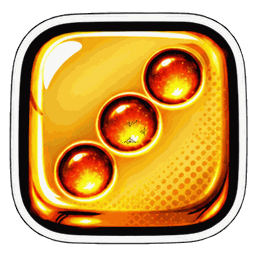
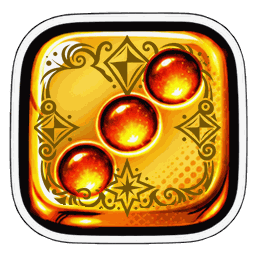
fix(motifs): vingt-quatre faces sans gravure, et la carte d'accueil ignorait la hauteur de l'ecran
LES GRAVURES MANQUANTES. Toutes celles dont le point du milieu est en BRAISE :
die_1, die_3, die_5 en version chaude, sur les douze combinaisons. La cause est
dans la lecture de l'anatomie du de — elle prenait la zone claire qui contient
le CENTRE, et un pip allume est clair lui aussi. La « face » mesurait 958 pixels
au lieu de 34 000, et la gravure se posait a l'interieur du point. A l'ecran :
un plateau ou les des chauds, et eux seuls, n'avaient pas de motif.

On prend desormais la PLUS GRANDE zone claire — le lisere blanc du de en fait
6 600, un pip 958 : aucun ne peut gagner. Et le script ne se croit plus sur
parole : `--verifier` compare chaque face gravee a sa source, et la generation
echoue si l'une d'elles n'a pas bouge. Annoncer « 144 faces gravees » quand
vingt-quatre sont des copies exactes, c'est compter des fichiers ecrits, pas du
travail fait.

LA CARTE D'ACCUEIL. Mesure en 360x640 : la coque faisait 640 px pour 851 px de
contenu — deux cent onze pixels coupes net, et le bas de la carte tombait hors
de l'ecran sans qu'aucun geste ne puisse aller le chercher. Trois defauts
empiles : la boite n'etait pas bornee (donc `overflow: auto` ne servait a
rien), son rembourrage s'ajoutait a `max-height` faute de `border-box`, et le
centrage par `margin: auto` repartissait le debordement des deux cotes — la
moitie du haut devenant inatteignable.

Tout ce qui prend de la hauteur se mesure maintenant en hauteur d'ecran, avec
[…]

diff --git a/app/css/mobile.css b/app/css/mobile.css
@@ -324,7 +324,6 @@ input, textarea { -webkit-user-select: text; user-select: text; }
   #dicewrap .dc-over-seal { width: 86px; }
   #dicewrap .dc-bet-art { width: 116px; }
   #dicewrap .dc-over-score { font-size: 38px; }
-  #dicewrap .dc-menu-card { padding: 22px 20px; }
   #dicewrap .dc-menu-btns { flex-direction: column; }
   #dicewrap .dc-btn { min-height: 48px; }
 }
@@ -839,6 +838,16 @@ input, textarea { -webkit-user-select: text; user-select: text; }
 
 /* ── les ecrans tres etroits (320 px : le plancher Android) ───────────────── */
 
+/* Les tres petits ecrans en hauteur : on serre le texte, pas les boutons.
+   ⚠ C'EST LE PARAGRAPHE QU'ON SACRIFIE, PAS LE POUCE. Reduire les trois
+   boutons ferait tenir la carte aussi — et rendrait le jeu plus dur a demarrer
+   sur les telephones ou il est deja le plus a l'etroit. */
+@media (max-height: 700px) {
+  #dicewrap .dc-menu-card p { line-height: 1.3; }
+  #dicewrap .dc-menu-card h2 { font-size: calc(18px * var(--pd-ui, 1)); }
+  #dicewrap .dc-caps-head { letter-spacing: 1px; }
+}
+
 @media (max-width: 359px) {
   #dicewrap .dc-top { gap: 5px; padding: 5px 6px; }
   #dicewrap .dc-wallet { padding: 3px 9px; }
@@ -877,7 +886,29 @@ input, textarea { -webkit-user-select: text; user-select: text; }
        d'abord en faire une colonne. */
     display: flex;
     flex-direction: column;
-    min-height: 100%;
+    /* ⛔ `min-height: 100%` LAISSAIT LA CARTE GRANDIR AU-DELA DE L'ECRAN, et
+       `overflow-y: auto` ne servait alors a rien : on ne defile que dans une
+       boite BORNEE. Mesure du 2026-08-26 en 360x640 : la coque faisait 640 px
+       pour 851 px de contenu — deux cent onze pixels coupes net, et le bas de
+       la carte (les trois boutons, la ligne de statistiques) tombait hors de
+       l'ecran sans qu'aucun geste ne puisse aller le chercher.
+       On borne donc la boite a la hauteur disponible : elle s'etire tant qu'il
+       y a de la place, elle defile quand il n'y en a plus. */
+    flex: 1 1 auto;
+    min-height: 0;
+    max-height: 100%;
+    /* ⚠ SANS `border-box`, LE REMBOURRAGE S'AJOUTE A `max-height`. Mesure :
+       une boite bornee a 570 px en faisait 598 — les 12 et 16 px de haut et de
+       bas — et treize pixels de la carte passaient sous le bord de l'ecran.
+       Une hauteur maximale qui n'est pas la hauteur maximale ne borne rien. */
+    box-sizing: border-box;
+    /* ⚠ `margin: auto` CENTRE, PUIS CACHE. Quand la carte depasse, un centrage
+       par marges automatiques repartit le debordement des DEUX cotes — et la
+       moitie du haut devient inatteignable, aucun defilement ne remonte
+       au-dessus du point de depart. `safe center` centre tant qu'il y a de la
+       place et retombe en haut des qu'il n'y en a plus : rien n'est jamais
+       hors de portee. */
+    justify-content: safe center;
     overflow-y: auto;
     overscroll-behavior: contain;
     -webkit-overflow-scrolling: touch;
@@ -893,19 +924,51 @@ input, textarea { -webkit-user-select: text; user-select: text; }
      centree : le reste d'espace se partage a parts egales au-dessus et en
      dessous, ce qui se lit comme voulu. */
   #dicewrap .dc-menu-card {
-    margin: auto;
+    margin: 0 auto;                       /* le centrage vertical vient du parent */
     display: flex;
     flex-direction: column;
     justify-content: center;
-    gap: clamp(8px, 1.8vh, 20px);
+    gap: clamp(5px, 1.4vh, 20px);
+    padding: clamp(12px, 2.2vh, 22px) 20px;
   }
 
-  #dicewrap .dc-caps { margin-bottom: 14px; padding-top: 12px; }
-  #dicewrap .dc-caps-head { font-size: calc(11px * var(--pd-ui, 1)); margin-bottom: 9px; }
+  /* ⛔ LA CARTE D'ACCUEIL AVAIT UNE HAUTEUR FIXE ET L'ECRAN NON. Rembourrages,
+     ecarts, boutons et medaillons etaient en pixels : la meme carte de 695 px
+     sur un telephone de 640 et sur un de 915. Sur le petit, elle depassait de
+     cent trente pixels ; sur le grand, elle flottait au milieu du vide.
+     Tout ce qui prend de la HAUTEUR se mesure donc en hauteur d'ecran, avec un
+     plancher et un plafond : la carte se serre d'elle-meme sur un petit
+     telephone et retrouve son air sur un grand, sans media query a maintenir
+     pour chaque modele. */
+  #dicewrap .dc-menu-card p {
+    font-size: clamp(12.5px, 1.9vh, 15px);
+    line-height: 1.45;
+    margin-bottom: 0;
+  }
+  #dicewrap .dc-menu-btns { gap: clamp(7px, 1.5vh, 16px); }
+  #dicewrap .dc-menu-card .dc-btn-big {
+    padding: clamp(9px, 1.6vh, 15px) 30px clamp(7px, 1.3vh, 12px);
+    font-size: calc(clamp(14px, 2.1vh, 17px) * var(--pd-ui, 1));
+  }
+  #dicewrap .dc-menu-stats { margin-top: clamp(4px, 1vh, 14px); }
+  #dicewrap .dc-caps {
+    margin: 0 0 clamp(4px, 1.2vh, 14px);
+    padding-top: clamp(5px, 1.3vh, 12px);
+  }
+  #dicewrap .dc-caps-head { margin-bottom: clamp(4px, 1vh, 9px); }
+  #dicewrap .dc-cap {
+    width: min(15.5vw, clamp(40px, 7.2vh, 64px));
+    height: min(15.5vw, clamp(40px, 7.2vh, 64px));
+  }
+  #dicewrap .dc-cap-card {
+    min-height: clamp(40px, 6.4vh, 54px);
+    padding: clamp(4px, 1vh, 8px) 11px;
+  }
+  #dicewrap .dc-cap-trait { width: clamp(38px, 6vh, 52px); height: clamp(38px, 6vh, 52px); }
+
+  #dicewrap .dc-caps-head { font-size: calc(11px * var(--pd-ui, 1)); }
   #dicewrap .dc-caps-row { gap: 5px; }
-  #dicewrap .dc-cap { width: 15.5vw; height: 15.5vw; max-width: 64px; max-height: 64px; }
-  #dicewrap .dc-cap-card { gap: 9px; padding: 8px 11px; min-height: 54px; }
-  #dicewrap .dc-cap-trait { width: 52px; height: 52px; }
+  #dicewrap .dc-cap-card { gap: 9px; }
   #dicewrap .dc-cap-txt b { font-size: calc(13px * var(--pd-ui, 1)); }
   #dicewrap .dc-cap-txt span { font-size: calc(12px * var(--pd-ui, 1)); }
 

diff --git a/www/css/mobile.css b/www/css/mobile.css
@@ -324,7 +324,6 @@ input, textarea { -webkit-user-select: text; user-select: text; }
   #dicewrap .dc-over-seal { width: 86px; }
   #dicewrap .dc-bet-art { width: 116px; }
   #dicewrap .dc-over-score { font-size: 38px; }
-  #dicewrap .dc-menu-card { padding: 22px 20px; }
   #dicewrap .dc-menu-btns { flex-direction: column; }
   #dicewrap .dc-btn { min-height: 48px; }
 }
@@ -839,6 +838,16 @@ input, textarea { -webkit-user-select: text; user-select: text; }
 
 /* ── les ecrans tres etroits (320 px : le plancher Android) ───────────────── */
 
+/* Les tres petits ecrans en hauteur : on serre le texte, pas les boutons.
+   ⚠ C'EST LE PARAGRAPHE QU'ON SACRIFIE, PAS LE POUCE. Reduire les trois
+   boutons ferait tenir la carte aussi — et rendrait le jeu plus dur a demarrer
+   sur les telephones ou il est deja le plus a l'etroit. */
+@media (max-height: 700px) {
+  #dicewrap .dc-menu-card p { line-height: 1.3; }
+  #dicewrap .dc-menu-card h2 { font-size: calc(18px * var(--pd-ui, 1)); }
+  #dicewrap .dc-caps-head { letter-spacing: 1px; }
+}
+
 @media (max-width: 359px) {
   #dicewrap .dc-top { gap: 5px; padding: 5px 6px; }
   #dicewrap .dc-wallet { padding: 3px 9px; }
@@ -877,7 +886,29 @@ input, textarea { -webkit-user-select: text; user-select: text; }
        d'abord en faire une colonne. */
     display: flex;
     flex-direction: column;
-    min-height: 100%;
+    /* ⛔ `min-height: 100%` LAISSAIT LA CARTE GRANDIR AU-DELA DE L'ECRAN, et
+       `overflow-y: auto` ne servait alors a rien : on ne defile que dans une
+       boite BORNEE. Mesure du 2026-08-26 en 360x640 : la coque faisait 640 px
+       pour 851 px de contenu — deux cent onze pixels coupes net, et le bas de
+       la carte (les trois boutons, la ligne de statistiques) tombait hors de
+       l'ecran sans qu'aucun geste ne puisse aller le chercher.
+       On borne donc la boite a la hauteur disponible : elle s'etire tant qu'il
+       y a de la place, elle defile quand il n'y en a plus. */
+    flex: 1 1 auto;
+    min-height: 0;
+    max-height: 100%;
+    /* ⚠ SANS `border-box`, LE REMBOURRAGE S'AJOUTE A `max-height`. Mesure :
+       une boite bornee a 570 px en faisait 598 — les 12 et 16 px de haut et de
+       bas — et treize pixels de la carte passaient sous le bord de l'ecran.
+       Une hauteur maximale qui n'est pas la hauteur maximale ne borne rien. */
+    box-sizing: border-box;
+    /* ⚠ `margin: auto` CENTRE, PUIS CACHE. Quand la carte depasse, un centrage
+       par marges automatiques repartit le debordement des DEUX cotes — et la
+       moitie du haut devient inatteignable, aucun defilement ne remonte
+       au-dessus du point de depart. `safe center` centre tant qu'il y a de la
+       place et retombe en haut des qu'il n'y en a plus : rien n'est jamais
+       hors de portee. */
+    justify-content: safe center;
     overflow-y: auto;
     overscroll-behavior: contain;
     -webkit-overflow-scrolling: touch;
@@ -893,19 +924,51 @@ input, textarea { -webkit-user-select: text; user-select: text; }
      centree : le reste d'espace se partage a parts egales au-dessus et en
      dessous, ce qui se lit comme voulu. */
   #dicewrap .dc-menu-card {
-    margin: auto;
+    margin: 0 auto;                       /* le centrage vertical vient du parent */
     display: flex;
     flex-direction: column;
     justify-content: center;
-    gap: clamp(8px, 1.8vh, 20px);
+    gap: clamp(5px, 1.4vh, 20px);
+    padding: clamp(12px, 2.2vh, 22px) 20px;
   }
 
-  #dicewrap .dc-caps { margin-bottom: 14px; padding-top: 12px; }
-  #dicewrap .dc-caps-head { font-size: calc(11px * var(--pd-ui, 1)); margin-bottom: 9px; }
+  /* ⛔ LA CARTE D'ACCUEIL AVAIT UNE HAUTEUR FIXE ET L'ECRAN NON. Rembourrages,
+     ecarts, boutons et medaillons etaient en pixels : la meme carte de 695 px
+     sur un telephone de 640 et sur un de 915. Sur le petit, elle depassait de
+     cent trente pixels ; sur le grand, elle flottait au milieu du vide.
+     Tout ce qui prend de la HAUTEUR se mesure donc en hauteur d'ecran, avec un
+     plancher et un plafond : la carte se serre d'elle-meme sur un petit
+     telephone et retrouve son air sur un grand, sans media query a maintenir
+     pour chaque modele. */
+  #dicewrap .dc-menu-card p {
+    font-size: clamp(12.5px, 1.9vh, 15px);
+    line-height: 1.45;
+    margin-bottom: 0;
+  }
+  #dicewrap .dc-menu-btns { gap: clamp(7px, 1.5vh, 16px); }
+  #dicewrap .dc-menu-card .dc-btn-big {
+    padding: clamp(9px, 1.6vh, 15px) 30px clamp(7px, 1.3vh, 12px);
+    font-size: calc(clamp(14px, 2.1vh, 17px) * var(--pd-ui, 1));
+  }
+  #dicewrap .dc-menu-stats { margin-top: clamp(4px, 1vh, 14px); }
+  #dicewrap .dc-caps {
+    margin: 0 0 clamp(4px, 1.2vh, 14px);
+    padding-top: clamp(5px, 1.3vh, 12px);
+  }
+  #dicewrap .dc-caps-head { margin-bottom: clamp(4px, 1vh, 9px); }
+  #dicewrap .dc-cap {
+    width: min(15.5vw, clamp(40px, 7.2vh, 64px));
+    height: min(15.5vw, clamp(40px, 7.2vh, 64px));
+  }
+  #dicewrap .dc-cap-card {
+    min-height: clamp(40px, 6.4vh, 54px);
+    padding: clamp(4px, 1vh, 8px) 11px;
+  }
+  #dicewrap .dc-cap-trait { width: clamp(38px, 6vh, 52px); height: clamp(38px, 6vh, 52px); }
+
+  #dicewrap .dc-caps-head { font-size: calc(11px * var(--pd-ui, 1)); }
   #dicewrap .dc-caps-row { gap: 5px; }
-  #dicewrap .dc-cap { width: 15.5vw; height: 15.5vw; max-width: 64px; max-height: 64px; }
-  #dicewrap .dc-cap-card { gap: 9px; padding: 8px 11px; min-height: 54px; }
-  #dicewrap .dc-cap-trait { width: 52px; height: 52px; }
+  #dicewrap .dc-cap-card { gap: 9px; }
   #dicewrap .dc-cap-txt b { font-size: calc(13px * var(--pd-ui, 1)); }
   #dicewrap .dc-cap-txt span { font-size: calc(12px * var(--pd-ui, 1)); }
 

diff --git a/outils/motifs.py b/outils/motifs.py
@@ -56,6 +56,8 @@ MOTIFS = [('M001', 'dragon', (0, 0)),
 # pas ; le jour ou l'un d'eux revient au catalogue, il suffit de l'ajouter ici.
 JEUX = ['D000', 'S002', 'S006']
 
+MOTIFS_PAR_ID = {ident: nom for ident, nom, _ in MOTIFS}
+
 MARGE = 4          # de pixels entre le motif et le cadre du de
 SATURER = 1.35
 # ⚠ UN FACTEUR FIXE NE SUFFIT PAS. Assombrir de 40 % marche sur le sultan,
@@ -75,20 +77,31 @@ def dossier_du_jeu(jeu):
 def anatomie(a):
     """La face, et les pips — lus dans l'image, jamais supposes.
 
-    ⚠ LE LISERE BLANC DU DE EST CLAIR LUI AUSSI. On ne peut donc pas prendre
-    « la plus grande zone claire » : c'est la composante qui contient le CENTRE
-    qu'on veut, le cadre sombre separant les deux.
+    ⛔ LA PREMIERE VERSION PRENAIT LA ZONE CLAIRE QUI CONTIENT LE CENTRE, et
+    elle a rate vingt-quatre faces sur cent quarante-quatre : celles dont le
+    point du milieu est en BRAISE. Un pip allume est clair lui aussi — le
+    centre tombait donc dedans, la « face » mesurait neuf cent cinquante pixels
+    au lieu de trente-quatre mille, et le motif se gravait a l'interieur du
+    point. A l'ecran : un plateau ou les des chauds n'avaient pas de gravure,
+    et eux seuls.
+
+    On prend donc la PLUS GRANDE zone claire. Le lisere blanc du de en est une
+    autre (six mille pixels contre trente-quatre mille) et ne peut pas gagner ;
+    un pip, allume ou non, encore moins. Aucun cas particulier a prevoir, et
+    `--verifier` le prouve face par face.
     """
     L = a[..., :3].mean(2)
     de = a[..., 3] > 128
     clair = de & (L > 100)
     lab, n = ndimage.label(clair)
-    cy, cx = [s // 2 for s in de.shape]
-    ident = lab[cy, cx]
-    if ident == 0:                       # centre sur un pip : on prend la plus grande
-        tailles = ndimage.sum(clair, lab, range(1, n + 1))
-        ident = int(np.argmax(tailles)) + 1
+    if not n:
+        raise ValueError('aucune zone claire : ce n est pas un de')
+    tailles = ndimage.sum(clair, lab, range(1, n + 1))
+    ident = int(np.argmax(tailles)) + 1
     visage = lab == ident
+    if visage.sum() < de.sum() * 0.25:
+        raise ValueError('face suspecte : %d px pour un de de %d px'
+                         % (visage.sum(), de.sum()))
     pleine = ndimage.binary_fill_holes(visage)
     return pleine, visage, pleine & ~visage
 
@@ -187,15 +200,67 @@ def planche_de_controle():
     print('planche de controle :', chemin)
 
 
+def source(jeu, fichier):
+    return os.path.join(dossier_du_jeu(jeu), fichier)
+
+
+def verifier():
+    """Chaque face gravee porte-t-elle VRAIMENT sa gravure ?
+
+    ⛔ CE CONTROLE NAIT D'UNE LIVRAISON RATEE. Le script annoncait « 144 faces
+    gravees » et vingt-quatre d'entre elles etaient la copie exacte de leur
+    source : le compte etait juste, le travail non. Compter des fichiers ecrits
+    ne prouve rien — on compare donc l'image gravee a celle dont elle sort.
+    Moins de 3 % de pixels changes, c'est qu'il ne s'est rien passe.
+    """
+    fautes = []
+    for jeu in JEUX:
+        for ident, _ in MOTIFS_PAR_ID.items():
+            combo = os.path.join(SKINS, '%s_%s' % (jeu, ident))
+            for fichier, chemin in faces(jeu):
+                cible = os.path.join(combo, fichier)
+                if not os.path.isfile(cible):
+                    fautes.append('%s/%s : absent' % (os.path.basename(combo), fichier))
+                    continue
+                avant = np.array(Image.open(chemin).convert('RGBA')).astype(int)
+                apres = np.array(Image.open(cible).convert('RGBA')).astype(int)
+                if avant.shape != apres.shape:
+                    fautes.append('%s/%s : taille differente' % (os.path.basename(combo), fichier))
+                    continue
+                bouge = (np.abs(avant - apres)[..., :3].mean(2) > 12).mean() * 100
+                if bouge < 3:
+                    fautes.append('%s/%s : gravure absente (%.1f %% de pixels changes)'
+                                  % (os.path.basename(combo), fichier, bouge))
+    return fautes
+
+
 def main():
     ap = argparse.ArgumentParser()
     ap.add_argument('--planche', action='store_true',
                     help='ecrit une planche de controle et ne touche a rien')
+    ap.add_argument('--verifier', action='store_true',
+                    help='compare les gravures a leurs sources, sans rien ecrire')
     args = ap.parse_args()
     if args.planche:
         return planche_de_controle()
+    if args.verifier:
+        fautes = verifier()
+        for f in fautes:
+            print('  ✖ ' + f)
+        print('%d face(s) sans gravure' % len(fautes) if fautes
+              else 'toutes les faces portent leur gravure')
+        return 1 if fautes else 0
     n = tout()
     print('%d faces gravees dans www/dice/img/skins/' % n)
+    # ⚠ ON NE SE CROIT PAS SUR PAROLE : le compte de fichiers ecrits ne dit pas
+    # que la gravure y est. On relit ce qu'on vient d'ecrire.
+    fautes = verifier()
+    for f in fautes:
+        print('  ✖ ' + f)
+    if fautes:
+        print('%d face(s) sans gravure — RIEN N EST BON' % len(fautes))
+        return 1
+    print('controle : les %d faces portent leur gravure' % n)
     return 0
 
 
